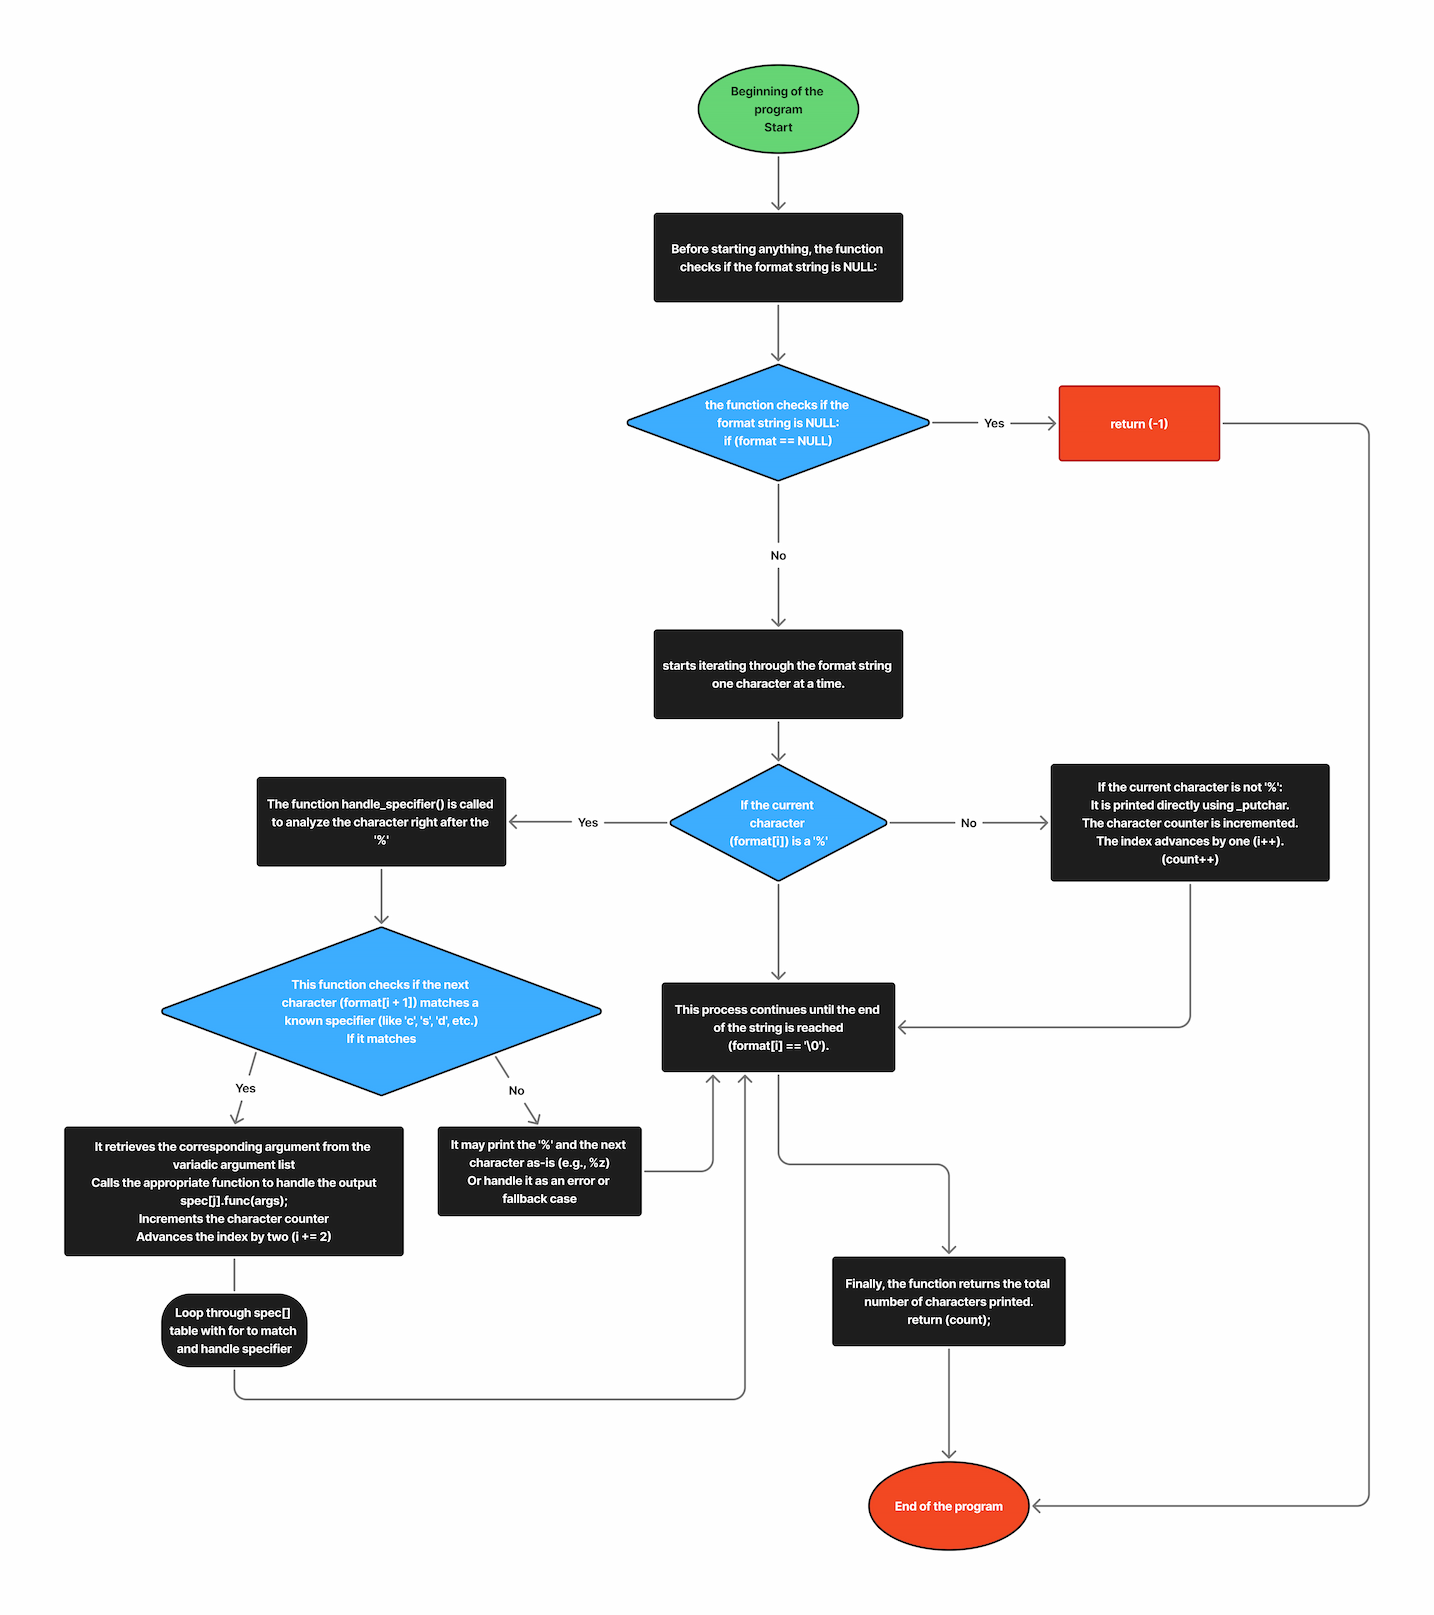
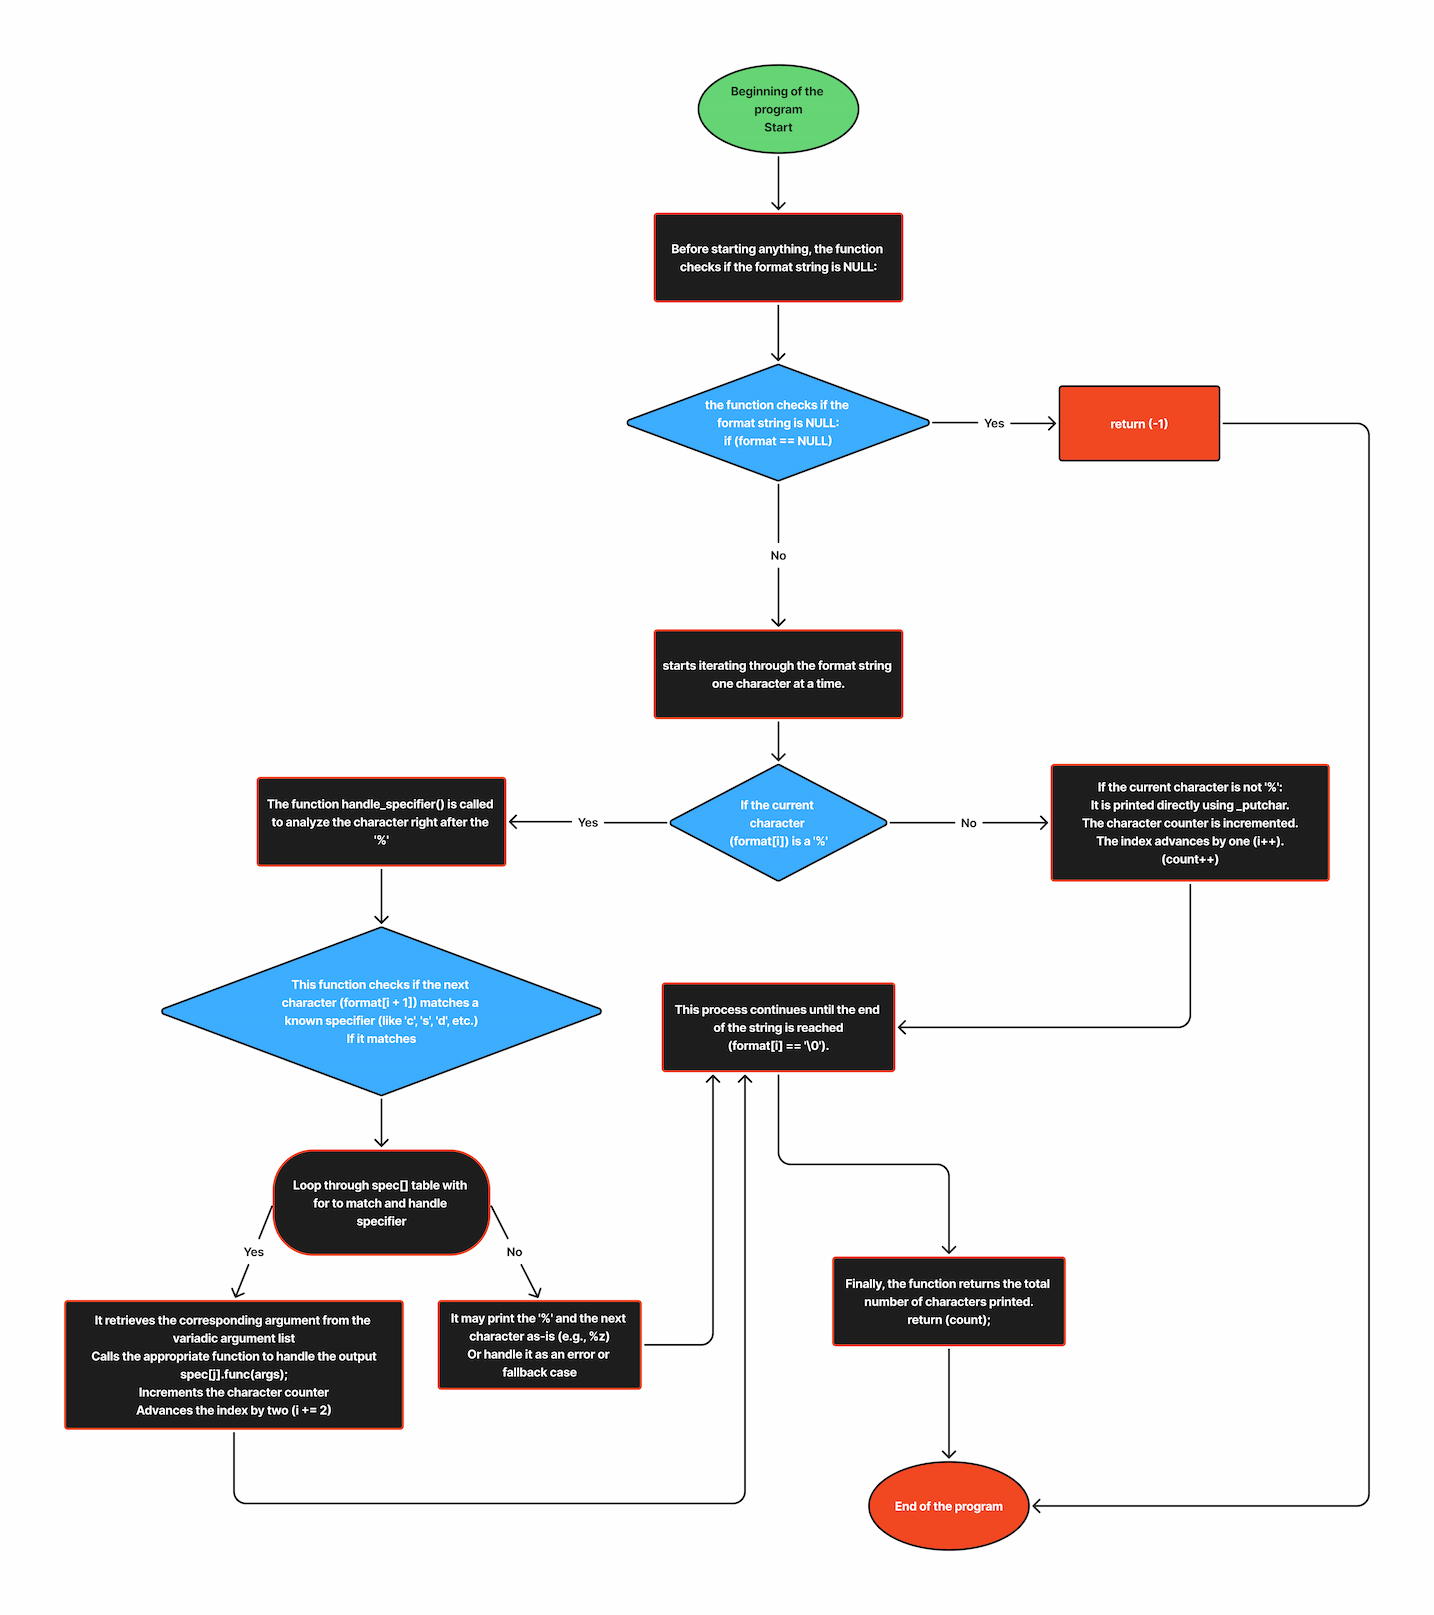
refactor: improve _printf function and handle_specifier logic

diff --git a/utils_functions.c b/utils_functions.c
@@ -60,26 +60,47 @@ int print_number(unsigned int n)
 
 int handle_specifier(const char *format, int *i, va_list args, spec_t spec[])
 {
+	/* j : index pour parcourir le tableau spec; */
+	/* count : nombre de caractères imprimés */
 	int j, count = 0;
 
-	/* Cas : % seul à la fin */
+	/* Vérifie si % est le dernier caractère de la chaîne */
+	/* (aucun caractère à traiter après) */
 	if (format[*i + 1] == '\0')
-		return (0);
+		return (0); /* Rien à faire, on retourne 0 */
 
+	/* Parcourt le tableau des spécificateurs jusqu'à la fin */
+	/* (détectée par '\0') */
 	for (j = 0; spec[j].specifier != '\0'; j++)
 	{
+		/* Si le caractère après % correspond à un spécificateur reconnu */
 		if (format[*i + 1] == spec[j].specifier)
 		{
+			/* Appelle la fonction correspondante et ajoute son retour au compteur */
 			count += spec[j].func(args);
+
+			/* Avance l'index de deux positions : le '%' et le caractère suivant */
 			*i += 2;
+
+			/* Retourne le nombre de caractères imprimés */
 			return (count);
 		}
 	}
 
 	/* Cas : caractère non géré → afficher % + caractère */
+	/* Si aucun spécificateur reconnu : on imprime '%' */
+	/* suivi du caractère non reconnu */
 	_putchar('%');
+
+	/* Affiche le caractère non reconnu après '%' */
 	_putchar(format[*i + 1]);
+
+	/* Avance l'index de deux positions */
+	/* (comme s’il s’agissait d’un couple valide) */
 	*i += 2;
+
+	/* Retourne 2 car deux caractères ont été imprimés : '%' */
+	/* et l'autre caractère */
 	return (2);
 }
 

diff --git a/_printf.c b/_printf.c
@@ -1,37 +1,42 @@
 #include "main.h"
 
 /**
- * _printf - Produces output according to a format
- * @format: A string containing the format to print
- *
- * Return: The number of characters printed (excluding the null byte)
- */
+* _printf - Produces output according to a format
+* @format: A string containing the format to print
+*
+* Return: The number of characters printed (excluding the null byte)
+*/
+
 int _printf(const char *format, ...)
 {
+	/* Déclaration de la liste d'arguments variables */
 	va_list args;
+
+	/* Compteur de caractères imprimés et index de parcours de la chaîne */
+	/* format */
 	int count = 0, i = 0;
 
+	/* Tableau de structures associant les spécificateurs */
+	/* à leur fonction de traitement */
 	spec_t spec[] = {
 		{'c', print_char}, {'s', print_string},
 		{'%', print_percent}, {'i', print_int},
 		{'d', print_int}, {'\0', NULL}
 	};
 
+	/* Vérifie si le pointeur format est NULL */
 	if (format == NULL)
 		return (-1);
 
+	/* Initialise l'accès aux arguments variables */
 	va_start(args, format);
-	while (format[i])
-	{
-		if (format[i] == '%')
-			count += handle_specifier(format, &i, args, spec);
-		else
-		{
-			_putchar(format[i]);
-			count++;
-			i++;
-		}
-	}
+
+	/* Appelle une fonction pour traiter la chaîne de format */
+	count = process_format(format, args, spec);
+
+	/* Termine l'utilisation de la liste d'arguments variables */
 	va_end(args);
+
+	/* Retourne le nombre total de caractères imprimés */
 	return (count);
 }
